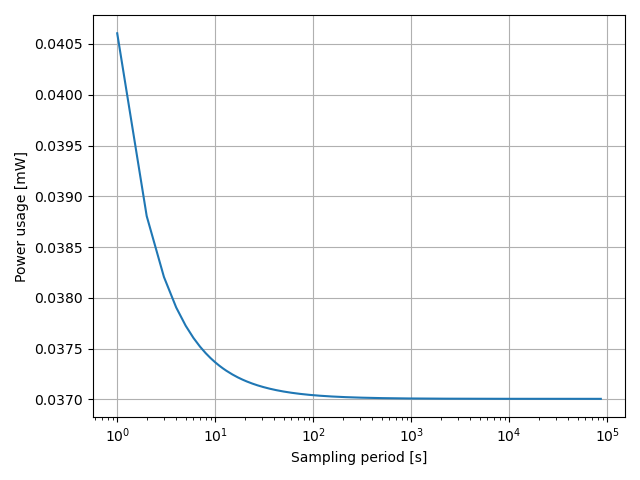
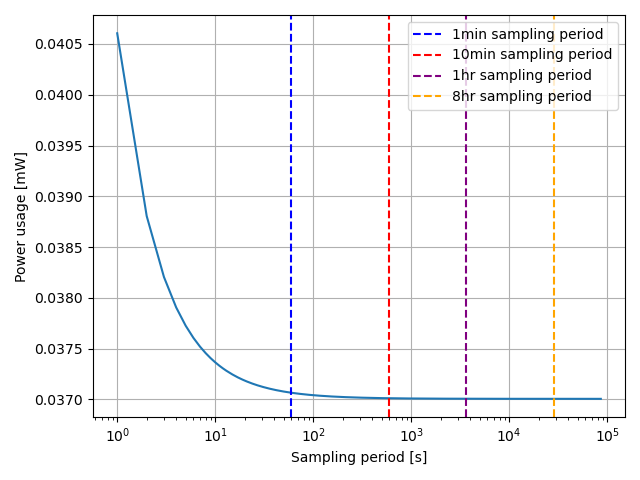
more detailed plots

Changed region(s): [[0.625, 0.0312, 0.9688, 0.25]]

diff --git a/robbetools.py b/robbetools.py
@@ -152,6 +152,11 @@ if __name__ == "__main__":
     pltpower = True
     if pltpower:
         plt.plot(periodlst, powerlst)
+        plt.axvline(x = 60, linestyle='dashed', color='blue', label = '1min sampling period')
+        plt.axvline(x = 600, linestyle='dashed', color='red', label = '10min sampling period')
+        plt.axvline(x = 60*60, linestyle='dashed', color='purple', label = '1hr sampling period')
+        plt.axvline(x = 60*60*8, linestyle='dashed', color='orange', label = '8hr sampling period')
+        plt.legend()
         plt.xscale('log')
         plt.xlabel('Sampling period [s]')
         plt.ylabel('Power usage [mW]')
@@ -165,6 +170,10 @@ if __name__ == "__main__":
         plt.plot(periodlst, dataAlst, label='Option A')
         plt.plot(periodlst, dataBlst, label='Option B')
         plt.plot(periodlst, dataClst, label='Option C')
+        plt.axvline(x = 60, linestyle='dashed', color='blue', label = '1min sampling period')
+        plt.axvline(x = 600, linestyle='dashed', color='red', label = '10min sampling period')
+        plt.axvline(x = 60*60, linestyle='dashed', color='purple', label = '1hr sampling period')
+        plt.axvline(x = 60*60*8, linestyle='dashed', color='orange', label = '8hr sampling period')
         plt.legend()
         plt.xscale('log')
         plt.xlabel('Sampling period [s]')
